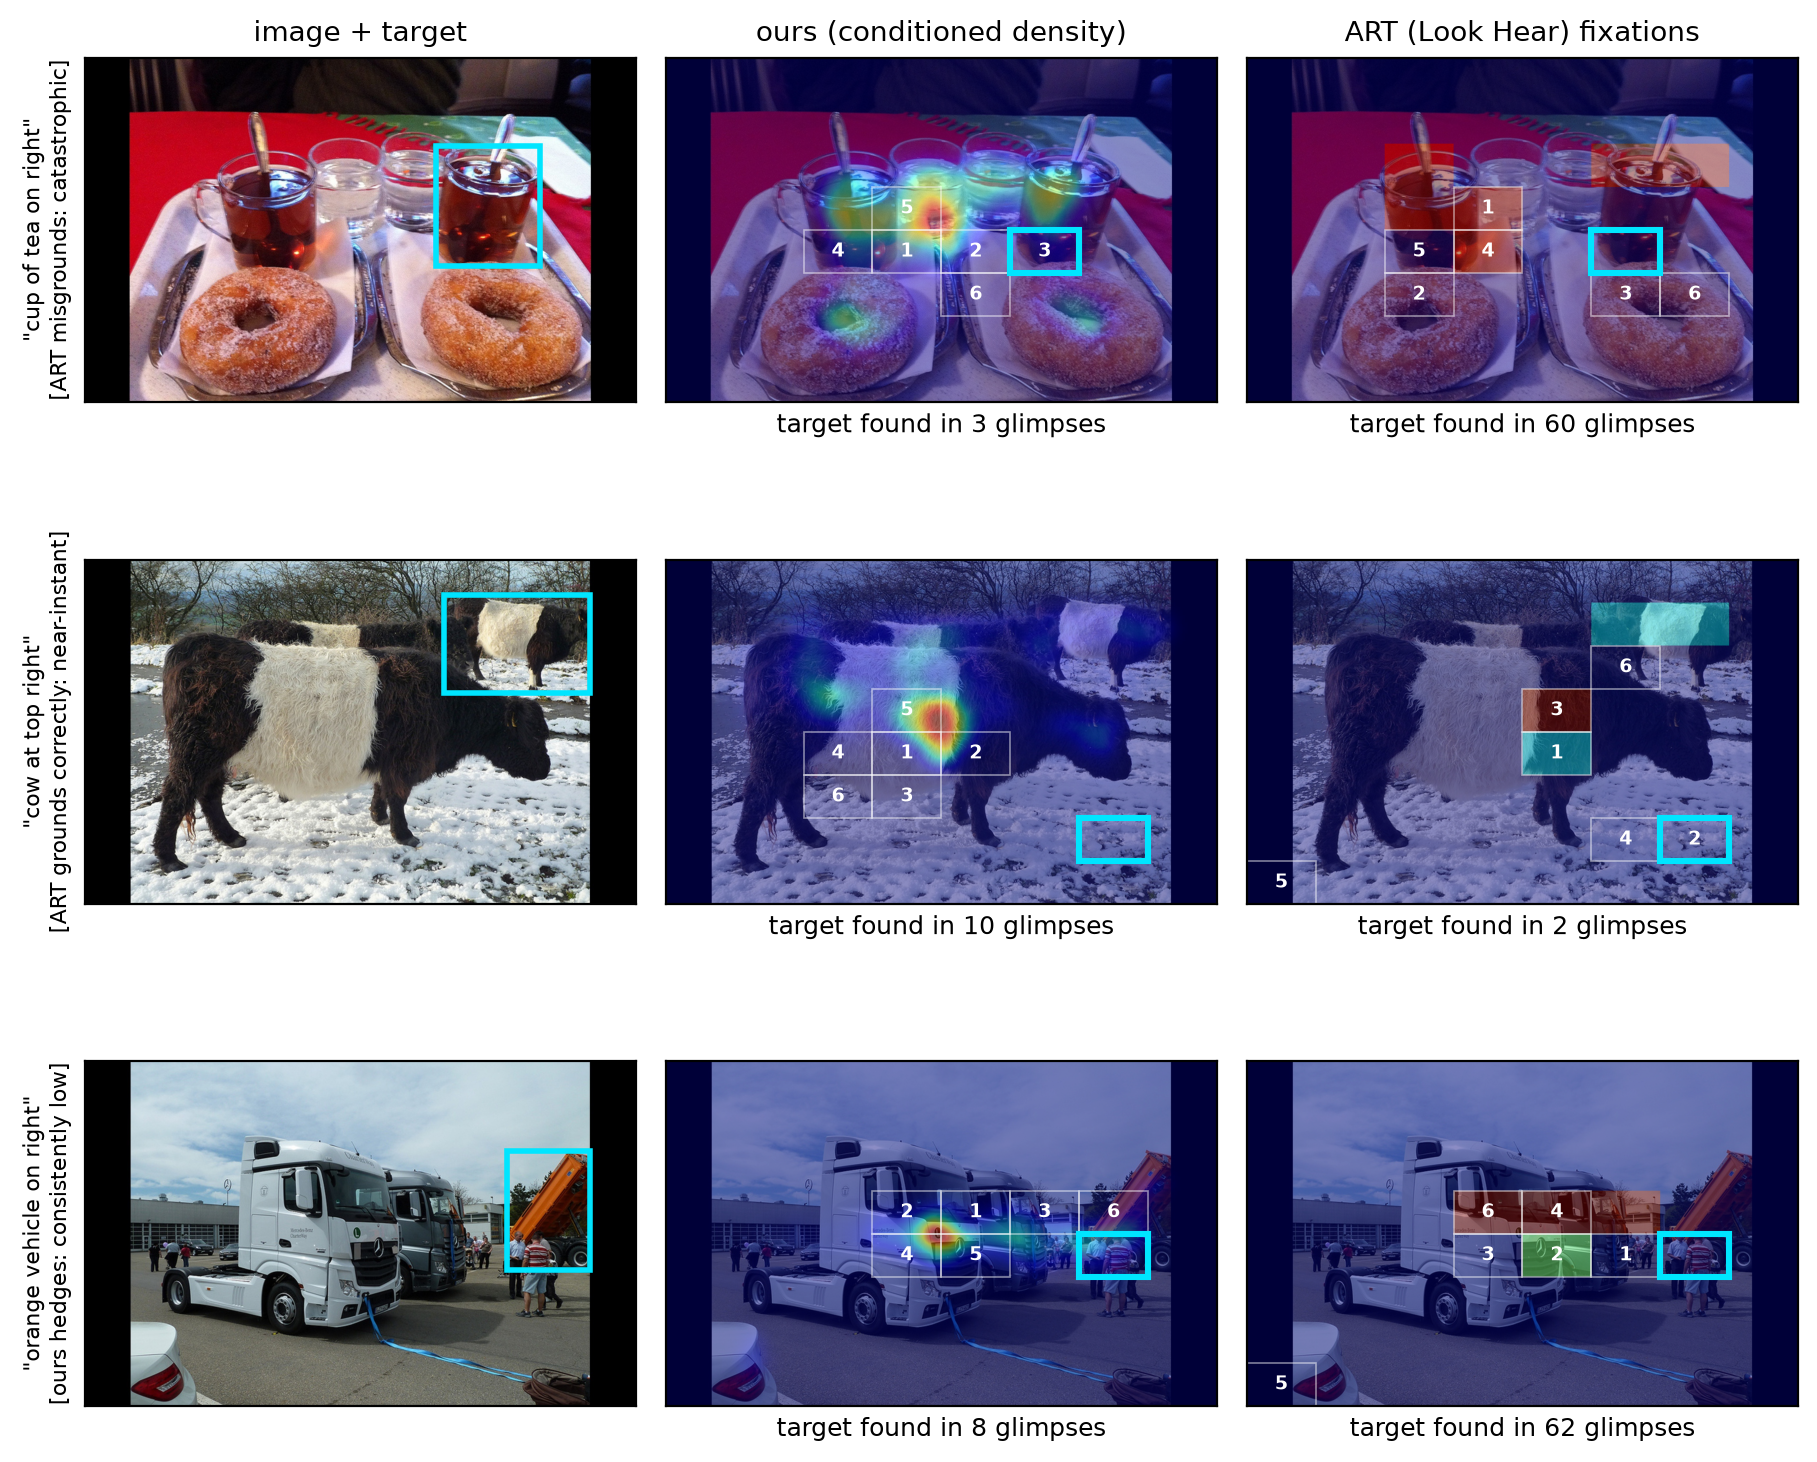
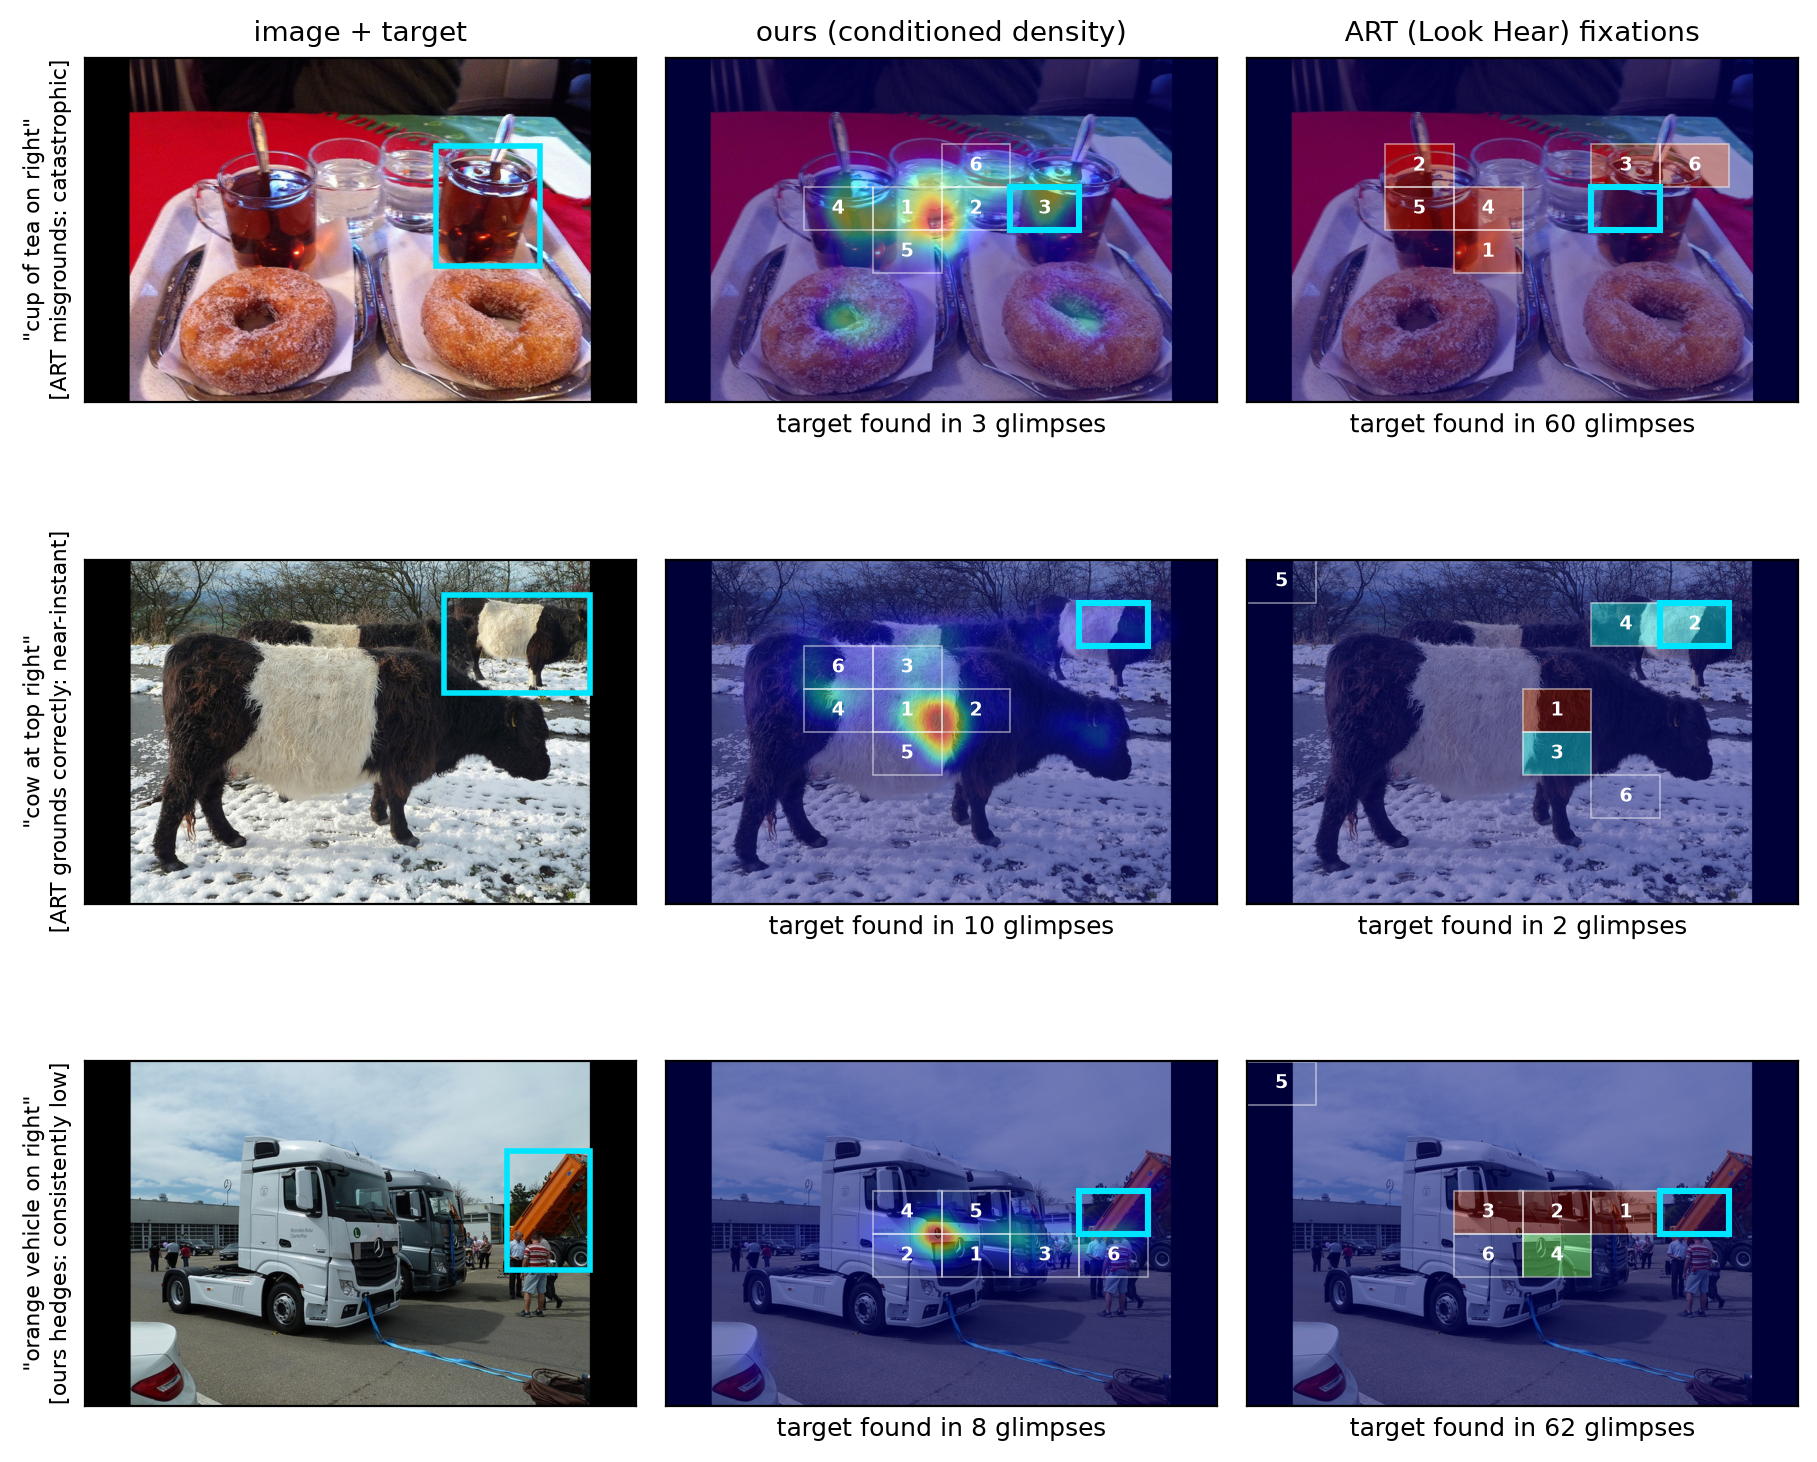
Fix glimpse-figure target-box y-flip (draw grid in data coords); update figure

diff --git a/scripts/make_fig_glimpse.py b/scripts/make_fig_glimpse.py
@@ -15,7 +15,7 @@ from PIL import Image
 from collections import defaultdict
 from scipy.ndimage import gaussian_filter
 
-from src.model import IntentASPP
+from src.model_v3 import IntentASPP
 from train_refcoco_gaze import (ROOT, PROC_VAL, PROC_TRAIN, RAW_VAL, OUT_CKPT,
                                 SIZE, EVAL, IM_M, IM_S, tile_of, order_from_map,
                                 glimpses)
@@ -64,16 +64,20 @@ def main():
 
     fig, axes = plt.subplots(len(EXAMPLES), 3, figsize=(9.2, 8.0))
 
-    def draw_grid_order(ax, order, target_tile, top=6):
+    def draw_grid_order(ax, order, target_tile, W, H, top=6):
+        # draw in DATA (pixel) coordinates so tiles align with imshow(origin='upper'):
+        # image row r=0 is the TOP. (transAxes was y-flipped, putting top-row tiles at
+        # the bottom of the panel.)
+        tw, th = W / G, H / G
         for rank, k in enumerate(order[:top]):
             r, c = divmod(k, G)
-            ax.add_patch(Rectangle((c/G, r/G), 1/G, 1/G, transform=ax.transAxes,
-                                   fill=False, edgecolor="white", lw=0.6, alpha=0.5))
-            ax.text((c+0.5)/G, (r+0.5)/G, str(rank+1), transform=ax.transAxes,
+            ax.add_patch(Rectangle((c*tw, r*th), tw, th, fill=False,
+                                   edgecolor="white", lw=0.6, alpha=0.5))
+            ax.text((c+0.5)*tw, (r+0.5)*th, str(rank+1),
                     color="white", fontsize=7, ha="center", va="center", weight="bold")
         r, c = divmod(target_tile, G)
-        ax.add_patch(Rectangle((c/G, r/G), 1/G, 1/G, transform=ax.transAxes,
-                               fill=False, edgecolor="#00e5ff", lw=2.2))
+        ax.add_patch(Rectangle((c*tw, r*th), tw, th, fill=False,
+                               edgecolor="#00e5ff", lw=2.2))
 
     for row, (stem, regime) in enumerate(EXAMPLES):
         e = ent[stem]
@@ -102,7 +106,7 @@ def main():
         ax = axes[row, 1]; ax.imshow(img); ax.imshow(np.asarray(Image.fromarray(
             (p/p.max()*255).astype(np.uint8)).resize(img.size)), cmap="jet", alpha=0.45)
         ax.set_xticks([]); ax.set_yticks([])
-        draw_grid_order(ax, order_from_map(p, G), tt)
+        draw_grid_order(ax, order_from_map(p, G), tt, img.size[0], img.size[1])
         if row == 0:
             ax.set_title("ours (conditioned density)", fontsize=10)
         ax.set_xlabel(f"target found in {og} glimpses", fontsize=9)
@@ -118,7 +122,7 @@ def main():
         ax.imshow(np.asarray(Image.fromarray((heat/max(heat.max(), 1)*255).astype(np.uint8)
                   ).resize(img.size, Image.NEAREST)), cmap="jet", alpha=0.45)
         ax.set_xticks([]); ax.set_yticks([])
-        draw_grid_order(ax, list(np.argsort(-w)), tt)
+        draw_grid_order(ax, list(np.argsort(-w)), tt, img.size[0], img.size[1])
         if row == 0:
             ax.set_title("ART (Look Hear) fixations", fontsize=10)
         ax.set_xlabel(f"target found in {ag} glimpses", fontsize=9)
